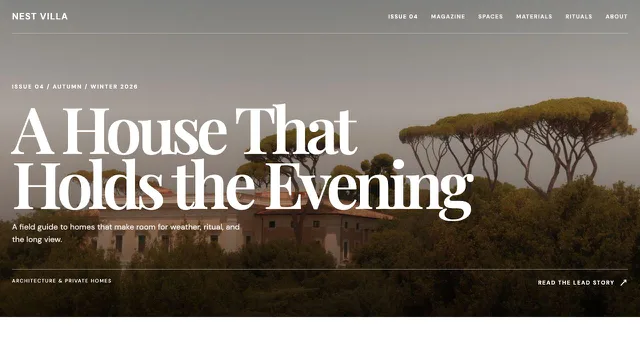
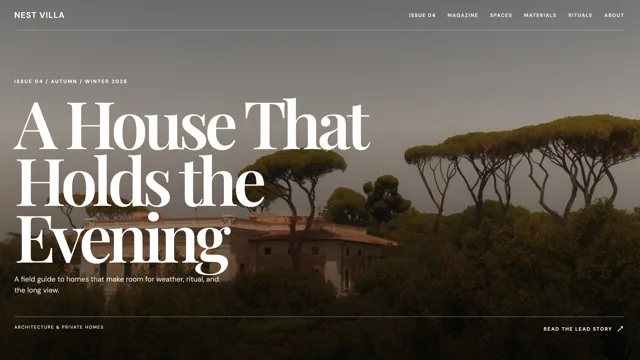
feat: 终版调整

diff --git a/src/view/site/templates/gallery.html b/src/view/site/templates/gallery.html
@@ -1,38 +1,34 @@
-<k-data>
-    <query as="templateCategories" source="content" resource="TemplateCategory" action="list" order="Sort" export></query>
-    <query as="templateItems" source="content" resource="TemplateItem" action="list" order="Sort" export></query>
-</k-data>
-
 <script env="server">
 
-    var categoryKeysByItemId = {};
-
-    function addTemplateCategory(itemId, categoryKey) {
-        if (!categoryKeysByItemId[itemId]) categoryKeysByItemId[itemId] = [];
-        categoryKeysByItemId[itemId].push(categoryKey);
-    }
+    var templateCategories = k.content.TemplateCategory.all({ orderBy: "Sort" });
+    var templateItems = [];
+    var templateItemsById = {};
 
     templateCategories.forEach(function (category) {
         category.FilterKey = category.id;
         category.Templates.forEach(function (item) {
-            addTemplateCategory(item.id, category.FilterKey);
+            var templateItem = templateItemsById[item.id];
+            if (!templateItem) {
+                var templateId = String(item.TemplateId || "").trim();
+                var previewImage = String(item.PreviewImage || "");
+                item.OptimizedPreviewImage = previewImage.toLowerCase().lastIndexOf(".png") === previewImage.length - 4
+                    ? previewImage.slice(0, -4) + ".webp"
+                    : previewImage;
+                item.AdminPath = templateId
+                    ? "/template/detail?templateId=" + encodeURIComponent(templateId) + "&lang=en"
+                    : "/templates?lang=en";
+                item.AdminHref = "/_Admin" + item.AdminPath;
+                templateItemsById[item.id] = item;
+                templateItems.push(item);
+                templateItem = item;
+            }
+            templateItem.FilterKeys = templateItem.FilterKeys
+                ? templateItem.FilterKeys + " " + category.FilterKey
+                : category.FilterKey;
         });
     });
 
     var templateDefaultFilter = templateCategories[0].FilterKey;
-
-    templateItems.forEach(function (item) {
-        var templateId = String(item.TemplateId || "").trim();
-        var previewImage = String(item.PreviewImage || "");
-        item.FilterKeys = (categoryKeysByItemId[item.id] || []).join(" ");
-        item.OptimizedPreviewImage = previewImage.toLowerCase().lastIndexOf(".png") === previewImage.length - 4
-            ? previewImage.slice(0, -4) + ".webp"
-            : previewImage;
-        item.AdminPath = templateId
-            ? "/template/detail?templateId=" + encodeURIComponent(templateId) + "&lang=en"
-            : "/templates?lang=en";
-        item.AdminHref = "/_Admin" + item.AdminPath;
-    });
 </script>
 
 <section class="template-gallery" aria-labelledby="template-gallery-title" data-template-gallery="" k-attribute="data-template-default-filter templateDefaultFilter">
@@ -43,8 +39,8 @@
 
         <div class="template-gallery__heading">
             <div>
-                <h1 id="template-gallery-title">Choose a starting point and quickly create a website</h1>
-                <p>From corporate websites, e-commerce platforms, choose a template to create your website with one click</p>
+                <h1 id="template-gallery-title">Start with a template and build faster</h1>
+                <p>Choose from corporate websites, e-commerce stores, applications, and tools. Launch your website with one click.</p>
             </div>
         </div>
 

diff --git a/src/view/site/common/site-header.html b/src/view/site/common/site-header.html
@@ -65,9 +65,9 @@
                 <a class="site-header__mobile-link" href="/" k-label="menu.home">Home</a>
                 <a class="site-header__mobile-link" href="/innovation" k-label="menu.innovation">Innovation</a>
                 <a class="site-header__mobile-link" href="/templates">Market</a>
-                <a class="site-header__mobile-link" href="/price" k-label="menu.pricing">Price</a>
+                <a class="site-header__mobile-link" href="/pricing" k-label="menu.pricing">Price</a>
                 <a class="site-header__mobile-link" href="/download">Download</a>
-                <a class="site-header__mobile-link" href="https://docs.redev.cn/" target="_blank" rel="noopener noreferrer" k-label="menu.docs">Doc</a>
+                <a class="site-header__mobile-link" href="https://docs.kooboo.com" target="_blank" rel="noopener" k-label="menu.docs">Doc</a>
                 <a k-if="showLogin" class="site-header__mobile-link" href="/_Admin/login?returnurl=/&amp;lang=en" k-attribute="href loginUrl" k-label="SignIn">Login</a>
                 <div k-if="isLoggedIn" class="site-header__mobile-user">
                     <div class="site-header__mobile-user-meta">
@@ -91,9 +91,9 @@
             <a class="site-header__link" href="/" k-label="menu.home">Home</a>
             <a class="site-header__link" href="/innovation" k-label="menu.innovation">Innovation</a>
             <a class="site-header__link" href="/templates">Marketplace</a>
-            <a class="site-header__link" href="/price" k-label="menu.pricing">Price</a>
+            <a class="site-header__link" href="/pricing" k-label="menu.pricing">Price</a>
             <a class="site-header__link" href="/download">Download</a>
-            <a class="site-header__link" href="https://docs.redev.cn/" target="_blank" rel="noopener noreferrer" k-label="menu.docs">Doc</a>
+            <a class="site-header__link" href="https://docs.kooboo.com" target="_blank" rel="noopener" k-label="menu.docs">Doc</a>
         </nav>
 
         <div class="site-header__actions">

diff --git a/src/css/site.css b/src/css/site.css
@@ -110,6 +110,16 @@
     background: #f6f9fa;
 }
 
+.template-card__media::before {
+    content: "";
+    position: absolute;
+    z-index: 1;
+    inset: 0;
+    border: 1px solid #e5e7eb;
+    border-radius: inherit;
+    pointer-events: none;
+}
+
 .template-card__media::after {
     content: "";
     position: absolute;
@@ -1054,9 +1064,9 @@ body:not(:has(.home-hero)) .site-footer {
 .home-hero__aurora {
     --aurora-start-y: 116px;
     --aurora-final-y: 0px;
-    top: calc(clamp(117px, 18vh, 216px) + 180px);
+    top: auto;
     bottom: 0;
-    aspect-ratio: auto;
+    aspect-ratio: 1350 / 400;
     transform: translateX(-50%) translateY(var(--aurora-start-y));
     animation: home-aurora-slide-up 1600ms cubic-bezier(0.16, 1, 0.3, 1) both;
 }
@@ -1068,6 +1078,10 @@ body:not(:has(.home-hero)) .site-footer {
     display: block;
     width: 100%;
     height: 100%;
+}
+
+.home-hero__aurora-image,
+.home-start-building__glow-image {
     object-fit: contain;
     object-position: center bottom;
 }
@@ -2949,6 +2963,12 @@ html.site-reveal-ready .site-scroll-reveal.is-visible {
 
     .price-faq {
         margin-top: 80px;
+    }
+}
+
+@media (min-width: 641px) and (max-height: 819px) {
+    .home-hero__stage {
+        min-height: 820px;
     }
 }
 

diff --git a/src/view/site/download/core.html b/src/view/site/download/core.html
@@ -1,7 +1,9 @@
 <section class="download-page" aria-labelledby="download-page-title" data-download-page="">
     <div class="download-page__inner">
         <h1 id="download-page-title">Download Kooboo Community Version</h1>
-         <p style="text-align: center;">Free to download and run on your own computer or server, without limitations.</p>
+         <p style="text-align: center;" class="pt-2 text-[var(--color-muted);] text-[14px]">
+            Free to download and run on your own computer or server, without limitations.
+        </p>
 
         <div class="download-panel">
             <article class="download-card">

diff --git a/src/page/price.html b/src/page/price.html
@@ -1,6 +1,6 @@
-<!-- @k-url /price --> 
+<!-- @k-url /pricing -->
 <layout id="main">
-    <placeholder id="Main">
-        <view id="site/price/core"></view>
-    </placeholder>
+  <placeholder id="Main">
+    <view id="site/price/core"></view>
+  </placeholder>
 </layout>
